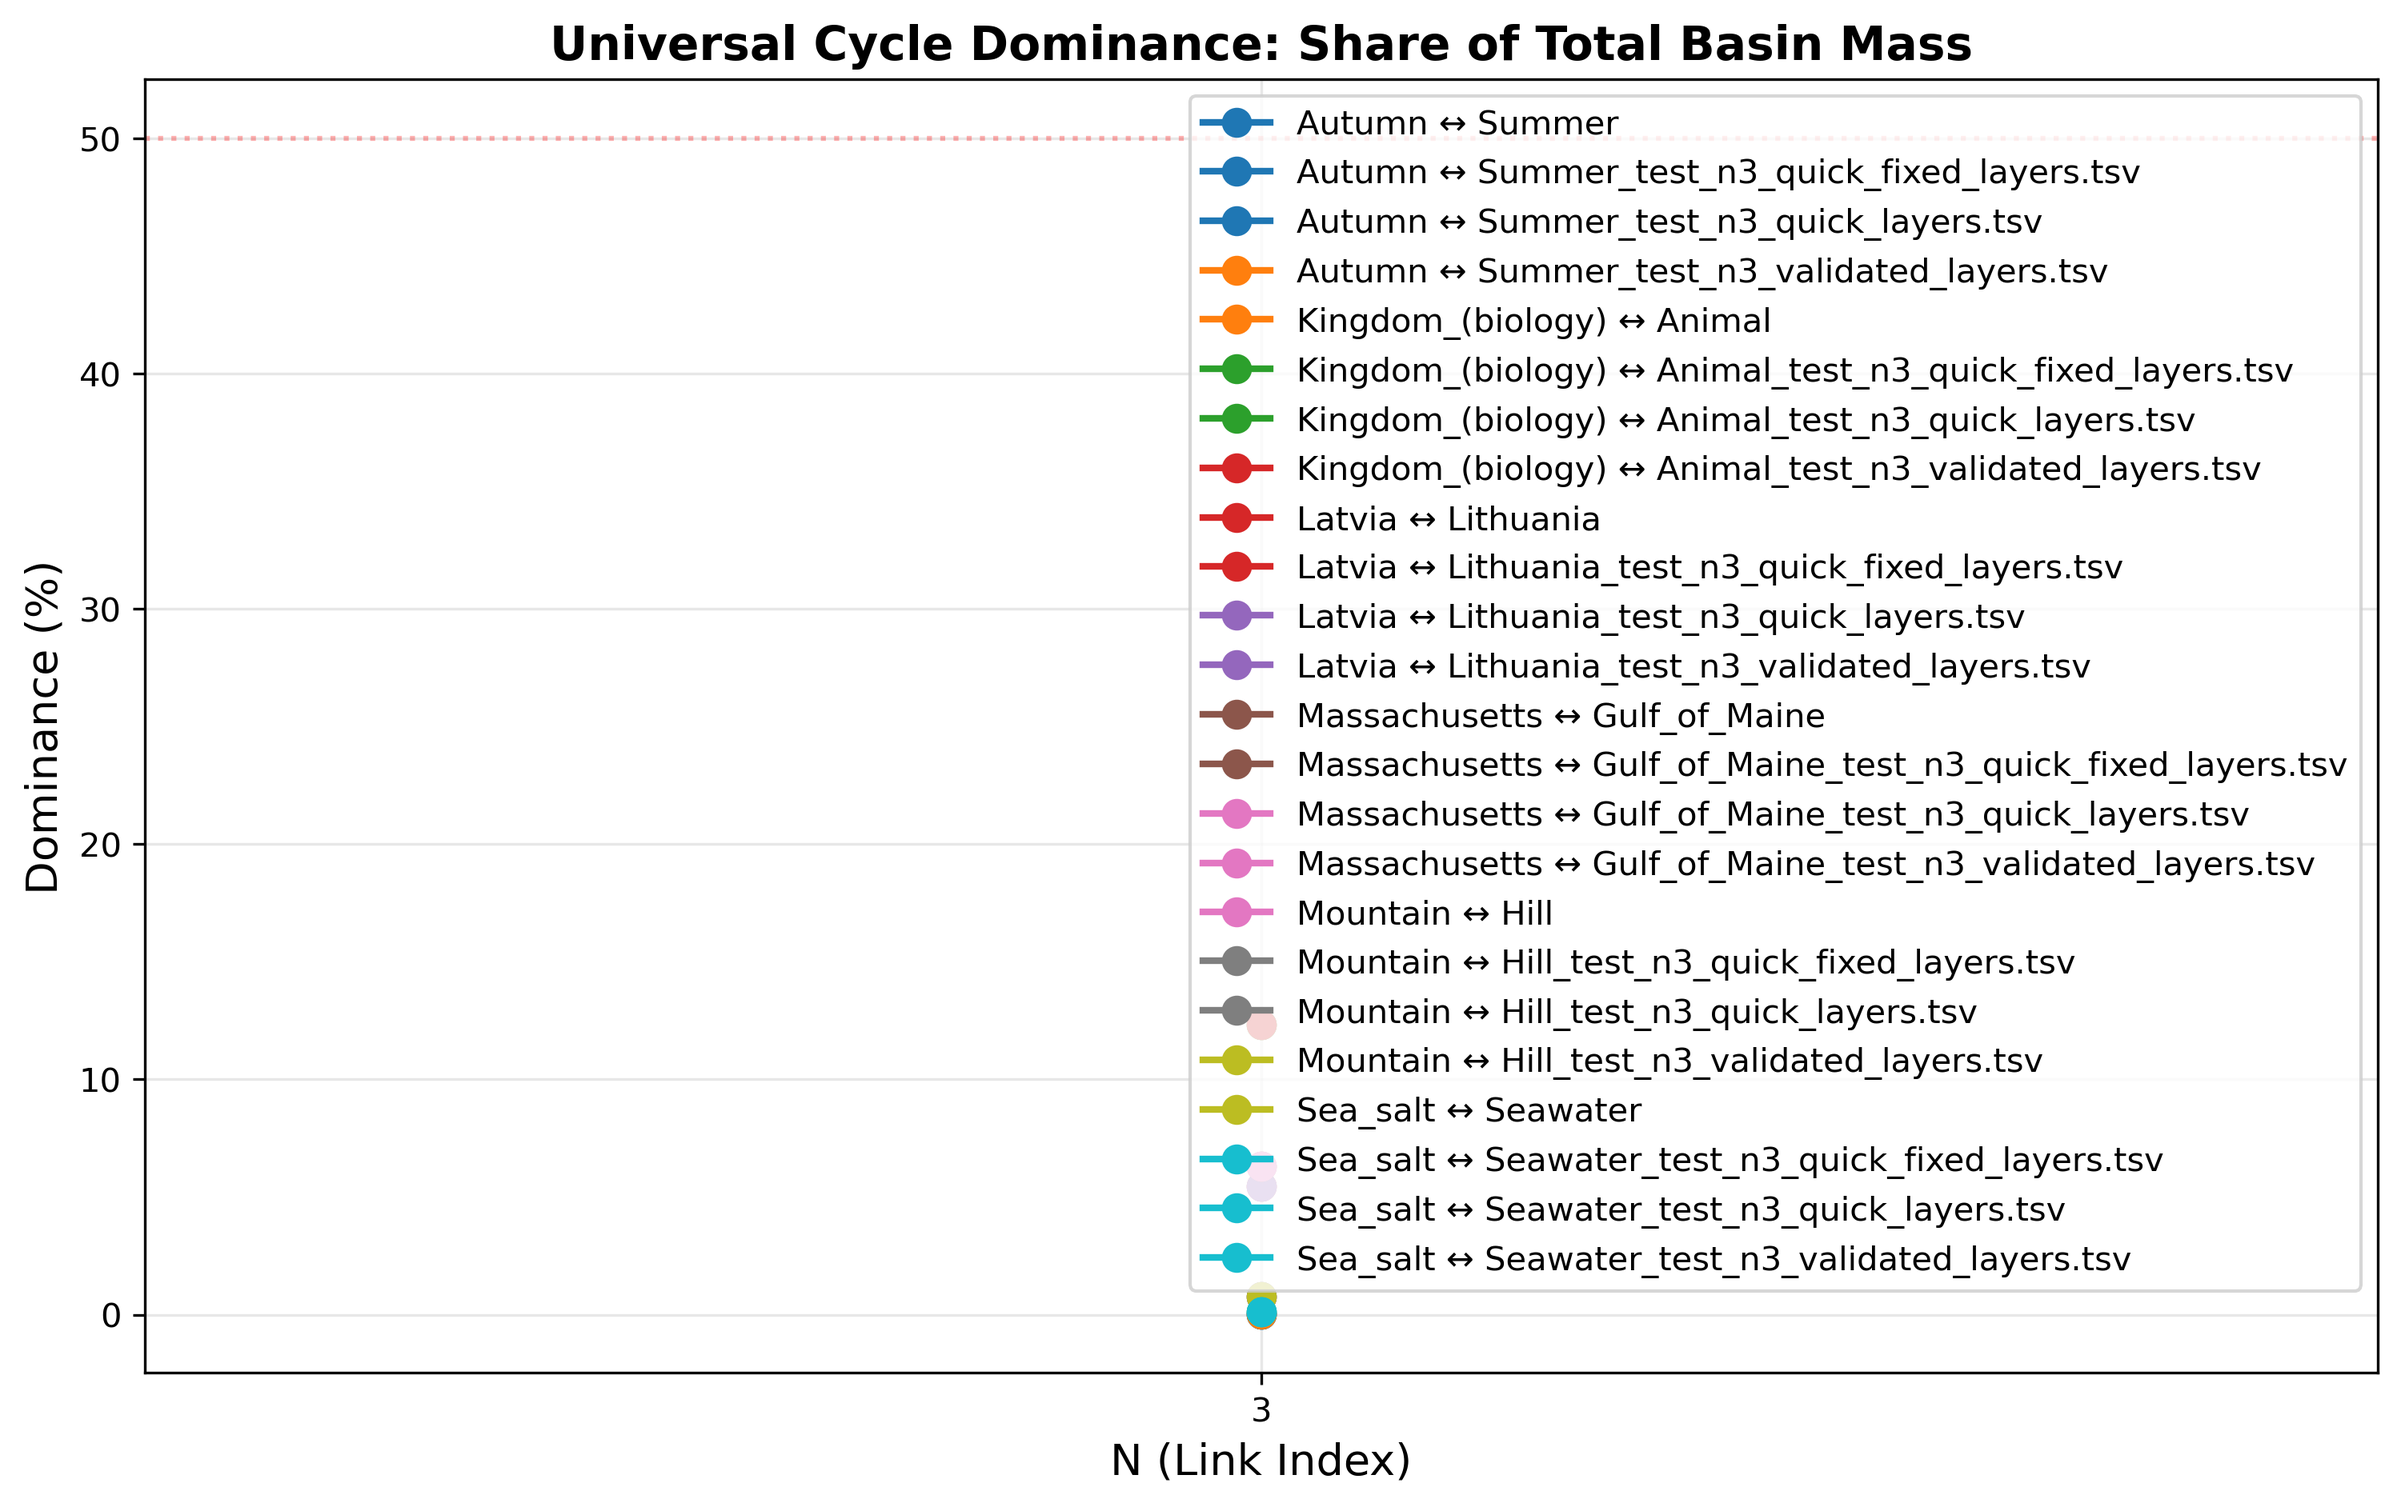
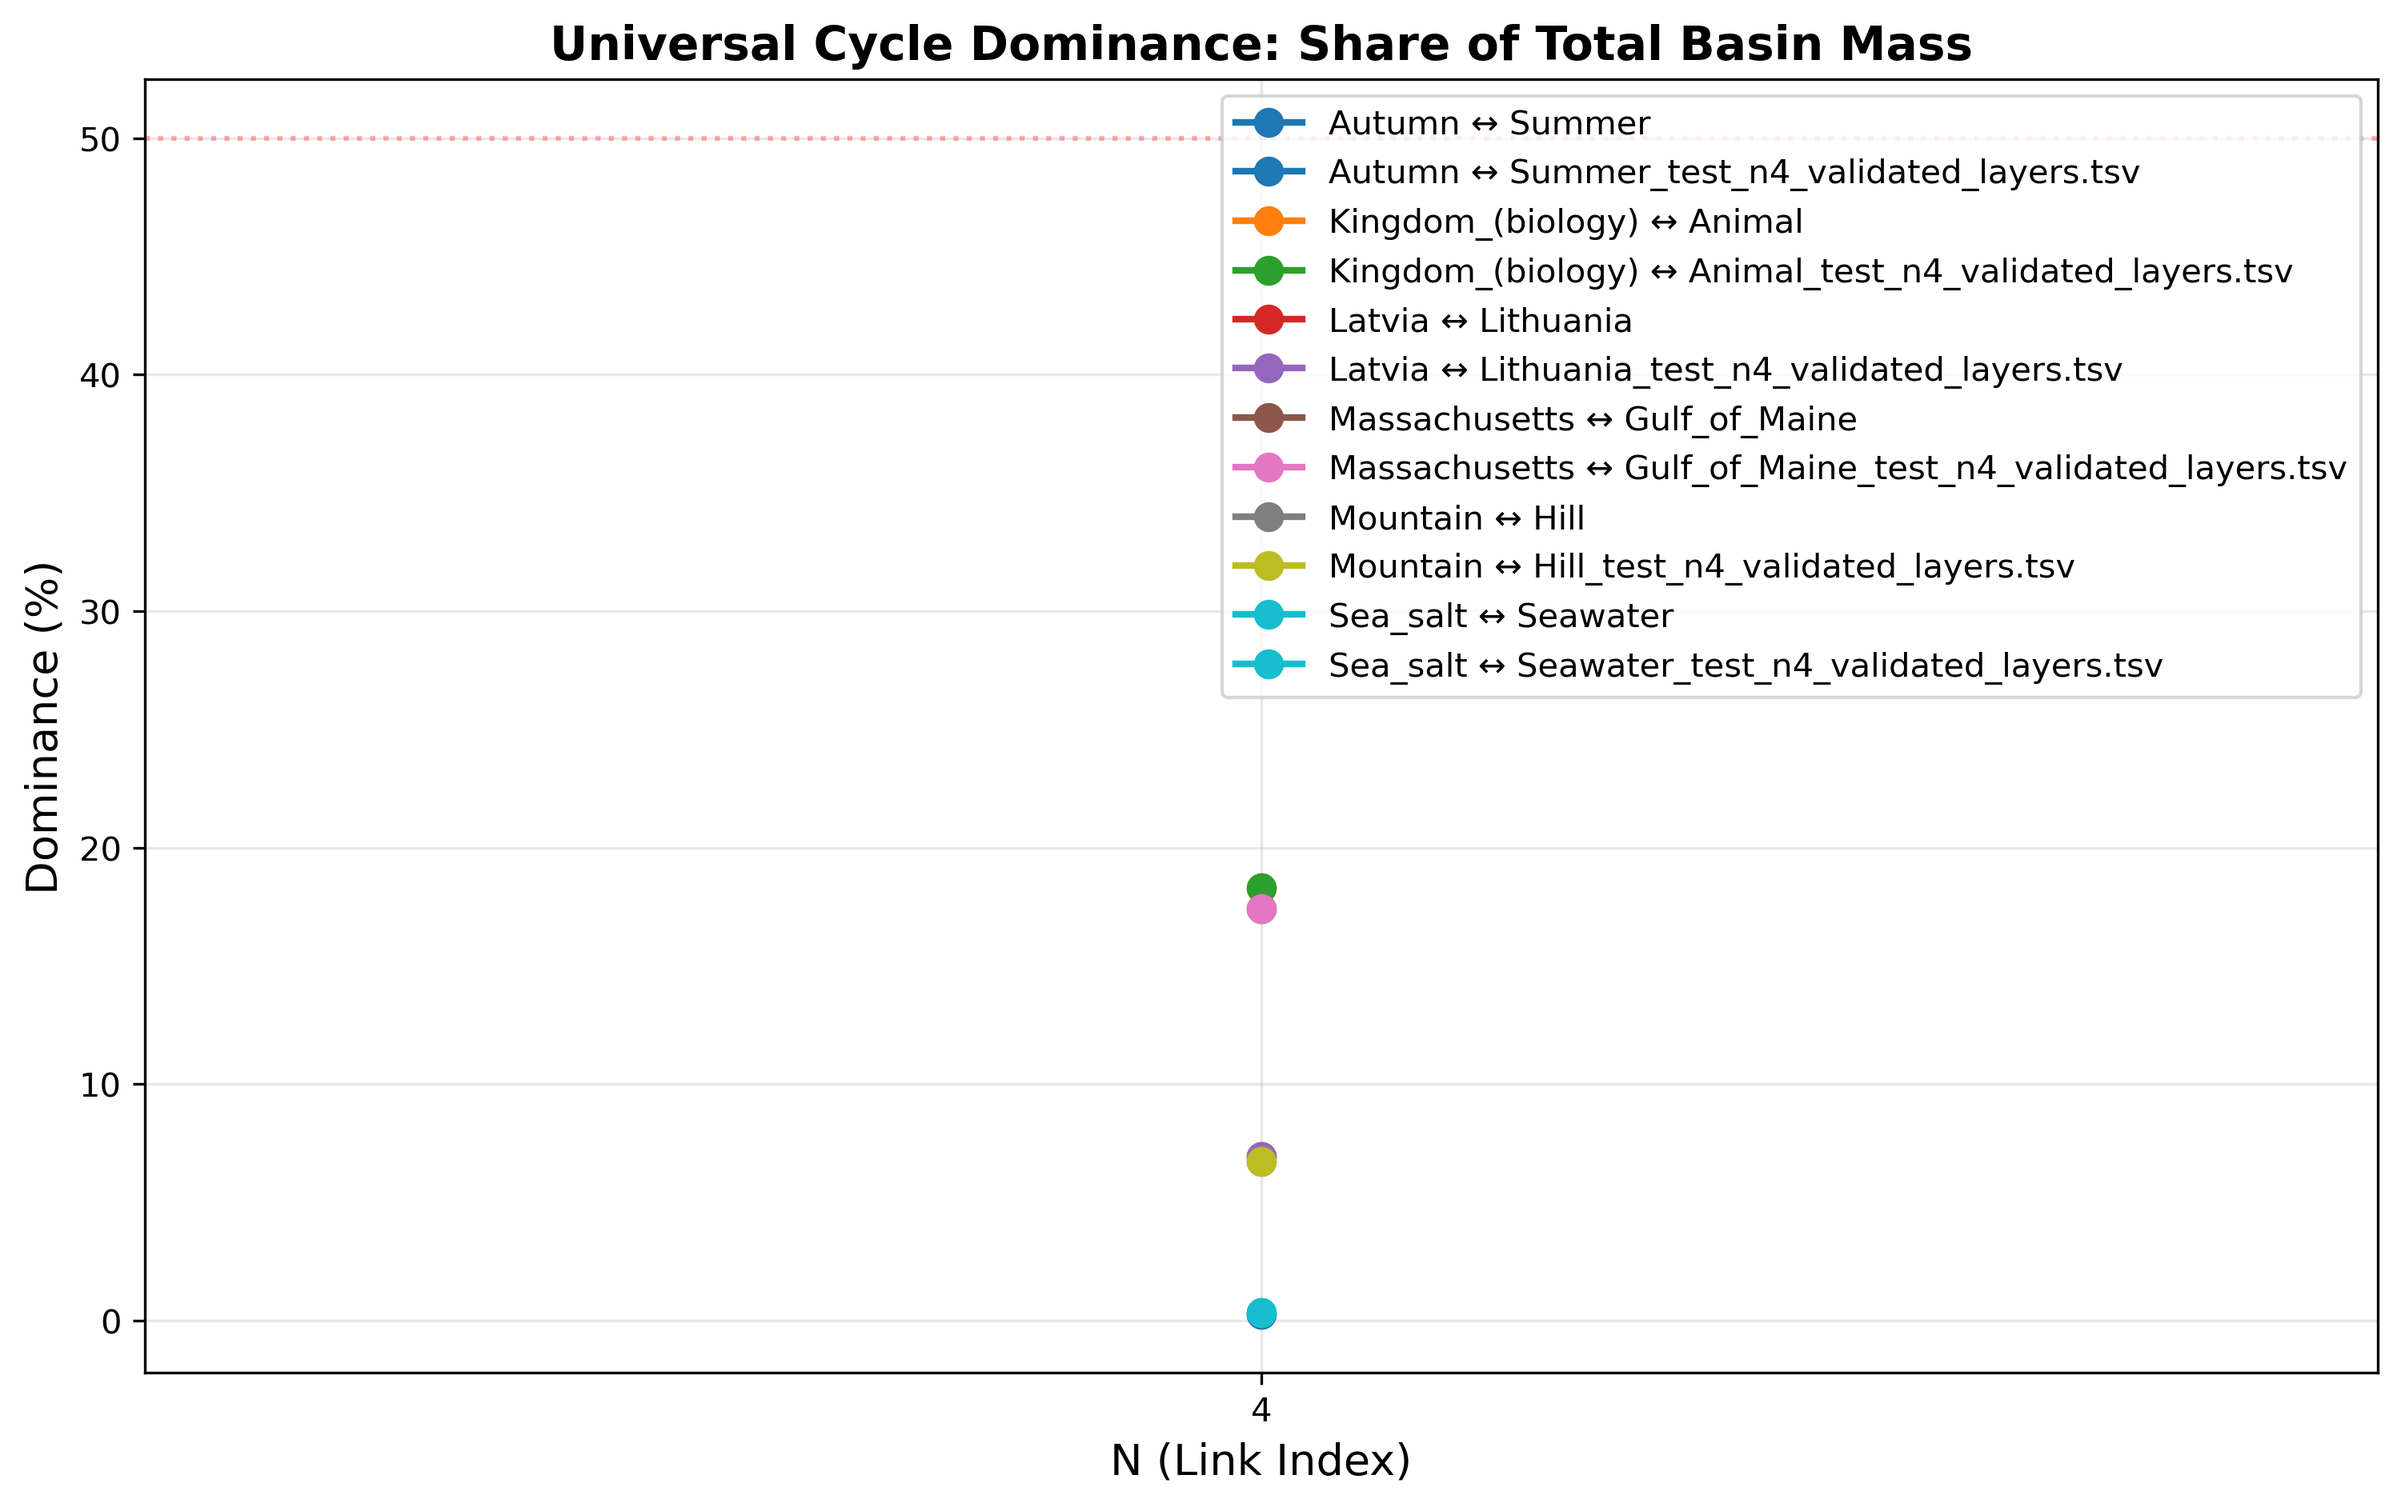
Update report assets and regenerate overview for N=4 validation

diff --git a/n-link-analysis/report/overview.md b/n-link-analysis/report/overview.md
@@ -79,7 +79,7 @@
         ## How to Regenerate
 
         From repo root:
-        - `python n-link-analysis/scripts/render-human-report.py --tag test_n3_validated`
+        - `python n-link-analysis/scripts/render-human-report.py --tag test_n4_validated`
 
         This rewrites:
         - `n-link-analysis/report/overview.md`
